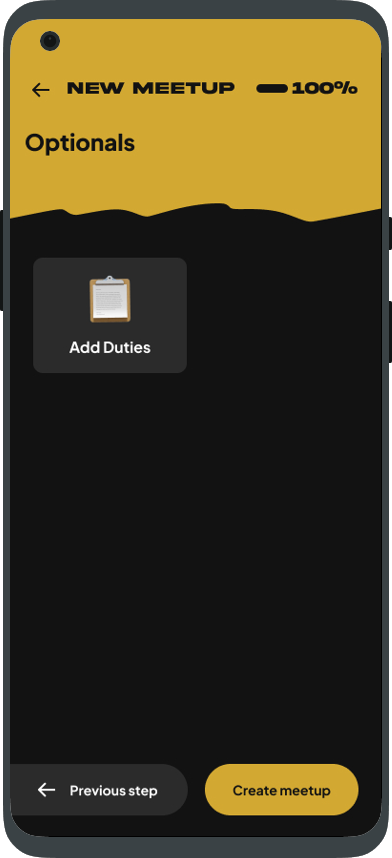
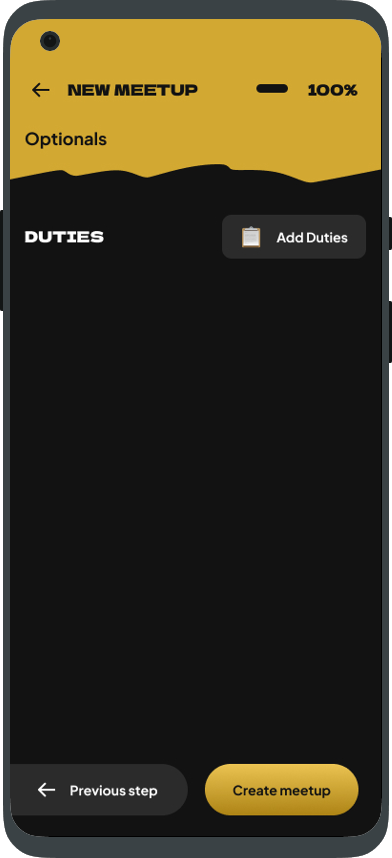
Updated

diff --git a/milibase.html b/milibase.html
@@ -291,8 +291,8 @@
             <p>
               Milibase updates itself automatically via GitHub. When a new
               version is available, the app notifies you and applies the update
-              on the spot — no manual downloads, no stores, no hassle. Always up
-              to date, always reliable.
+              on the spot. Always up
+              to date reliably.
             </p>
           </div>
         </div>
@@ -370,8 +370,8 @@
             <p>
               In order to protect sensitive data, only selected devices had
               access to the internet. To solve that, a local database would
-              create both a safe and offline way to store data without the need
-              to download data from an external server.
+              create a safe offline way to store data without the need
+              to fetch data from an external server.
             </p>
           </div>
         </div>
@@ -428,8 +428,8 @@
             <h4>Lists</h4>
             <p>
               The lists follow a simple - and a bit generic - design, nothing
-              fancy. This is because user experience is everything, the user has
-              to be able to find everything at a glance
+              fancy. This is because user experience is a top priority, the user has
+              to be able to find everything at a glance.
             </p>
           </div>
         </div>
@@ -467,8 +467,7 @@
                 there was not enough room for everything. Some sections got
                 off-screen and the whole experience created a visual clutter.
               </p>
-            </div>
-            <div class="gap-10"></div>
+              <div class="gap-10"></div>
             <div class="d-flex flex-wrap">
               <div
                 style="background-color: rgb(61, 114, 92)"
@@ -484,6 +483,8 @@
                 - Large amount of information creates visual clutter
               </div>
             </div>
+            </div>
+            
           </div>
           <div class="col-md-6">
             <img
@@ -513,14 +514,13 @@
                 The added navigation complexity to navigate each category is a
                 much needed sacrifice but delivers more usability than it costs.
               </p>
-            </div>
-            <div class="gap-10"></div>
+              <div class="gap-10"></div>
             <div class="d-flex flex-wrap">
               <div
                 style="background-color: rgb(61, 114, 92)"
                 class="rounded-2 px-3 py-2 my-1 me-2"
               >
-                + Categroies create order and manage information more easily
+                + Categories create order and manage information more easily
               </div>
 
               <div
@@ -530,6 +530,8 @@
                 - Adds navigation complexity
               </div>
             </div>
+            </div>
+            
           </div>
         </div>
 

diff --git a/together.html b/together.html
@@ -529,7 +529,7 @@
         <h3>Goal-Gradient Effect</h3>
         <p>
           “Provide a clear indication of progress in order to motivate users to
-          complete tasks.” - <i>lawsofux.com</i>
+          complete tasks.” - <i>Gestalt Principles | lawsofux.com</i>
         </p>
         <div class="gap-20"></div>
         <div class="row g-4">
@@ -565,7 +565,8 @@
         <div class="gap-60"></div>
         <div class="gap-60"></div>
         <h2 style="font-family: Akira">Promotion</h2>
-        <div class="gap-60"></div>
+        <p>Thesis section - Not updated for later iterations</p>
+        <div class="gap-40"></div>
         <div class="row g-4">
           <div class="col-md-8">
             <h3>Character</h3>
